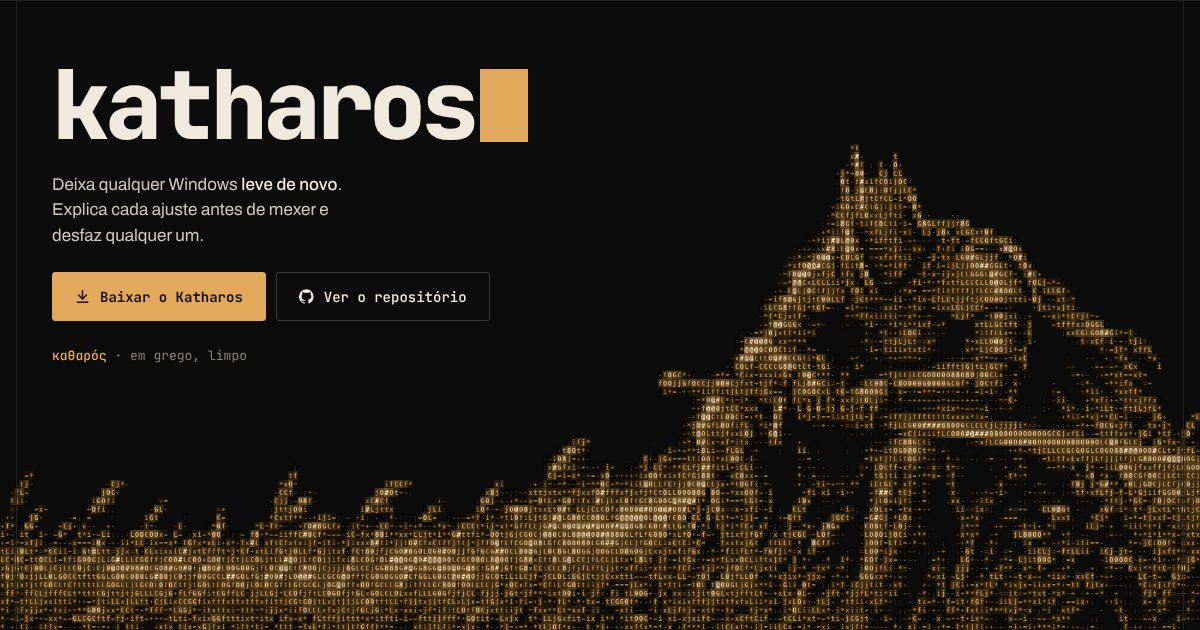
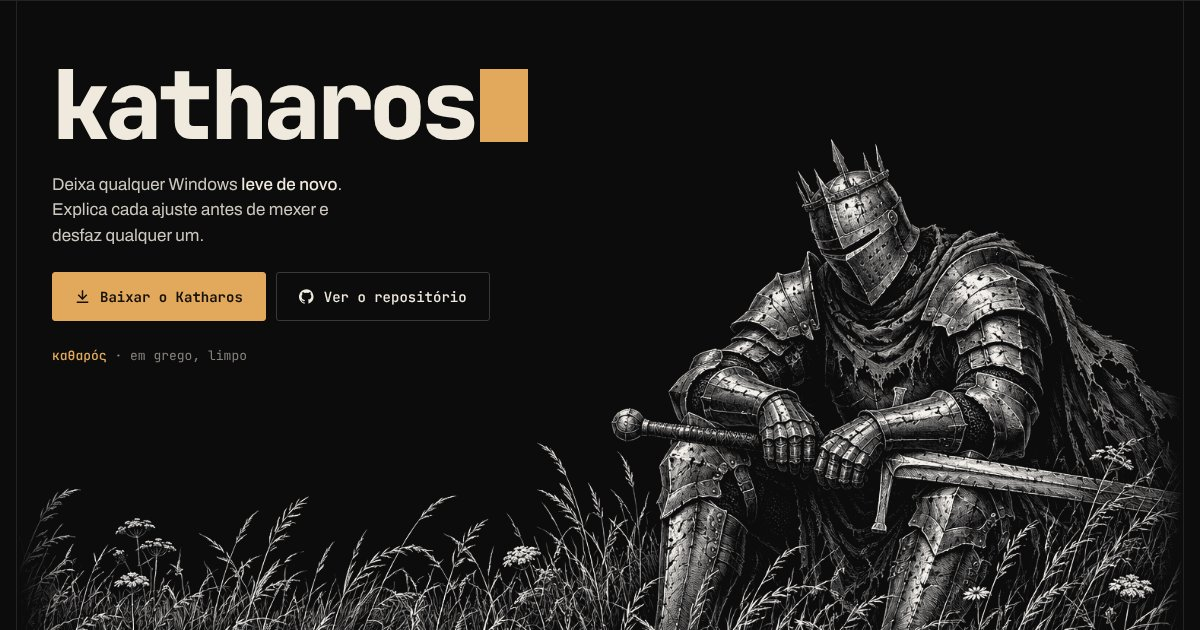
Guerreiro em gravura preto e branco, sem ASCII

Changed region(s): [[0.0, 0.2111, 1.0, 1.0]]

diff --git a/docs/index.html b/docs/index.html
@@ -16,7 +16,7 @@
 <link rel="preconnect" href="https://fonts.googleapis.com">
 <link rel="preconnect" href="https://fonts.gstatic.com" crossorigin>
 <link href="https://fonts.googleapis.com/css2?family=JetBrains+Mono:wght@400;500;700;800&family=Archivo:wght@400;500&display=swap" rel="stylesheet">
-<link rel="preload" as="image" href="cena-ascii.webp">
+<link rel="preload" as="image" href="gravura.webp">
 <style>
   :root {
     --fundo: #0c0c0d;
@@ -258,7 +258,7 @@
         <p class="grego"><b>καθαρός</b> · em grego, limpo</p>
       </div>
       <div class="cena">
-        <img src="cena-ascii.webp" alt="Um guerreiro de armadura descansa sentado na grama alta, com o espadão sobre os joelhos, desenhado com caracteres de texto em tom âmbar" width="2000" height="1120" fetchpriority="high">
+        <img src="gravura.webp" alt="Um guerreiro de armadura descansa sentado na grama alta, com o espadão sobre os joelhos, em gravura preto e branco" width="1536" height="864" fetchpriority="high">
     </div>
     </div>
   </section>
